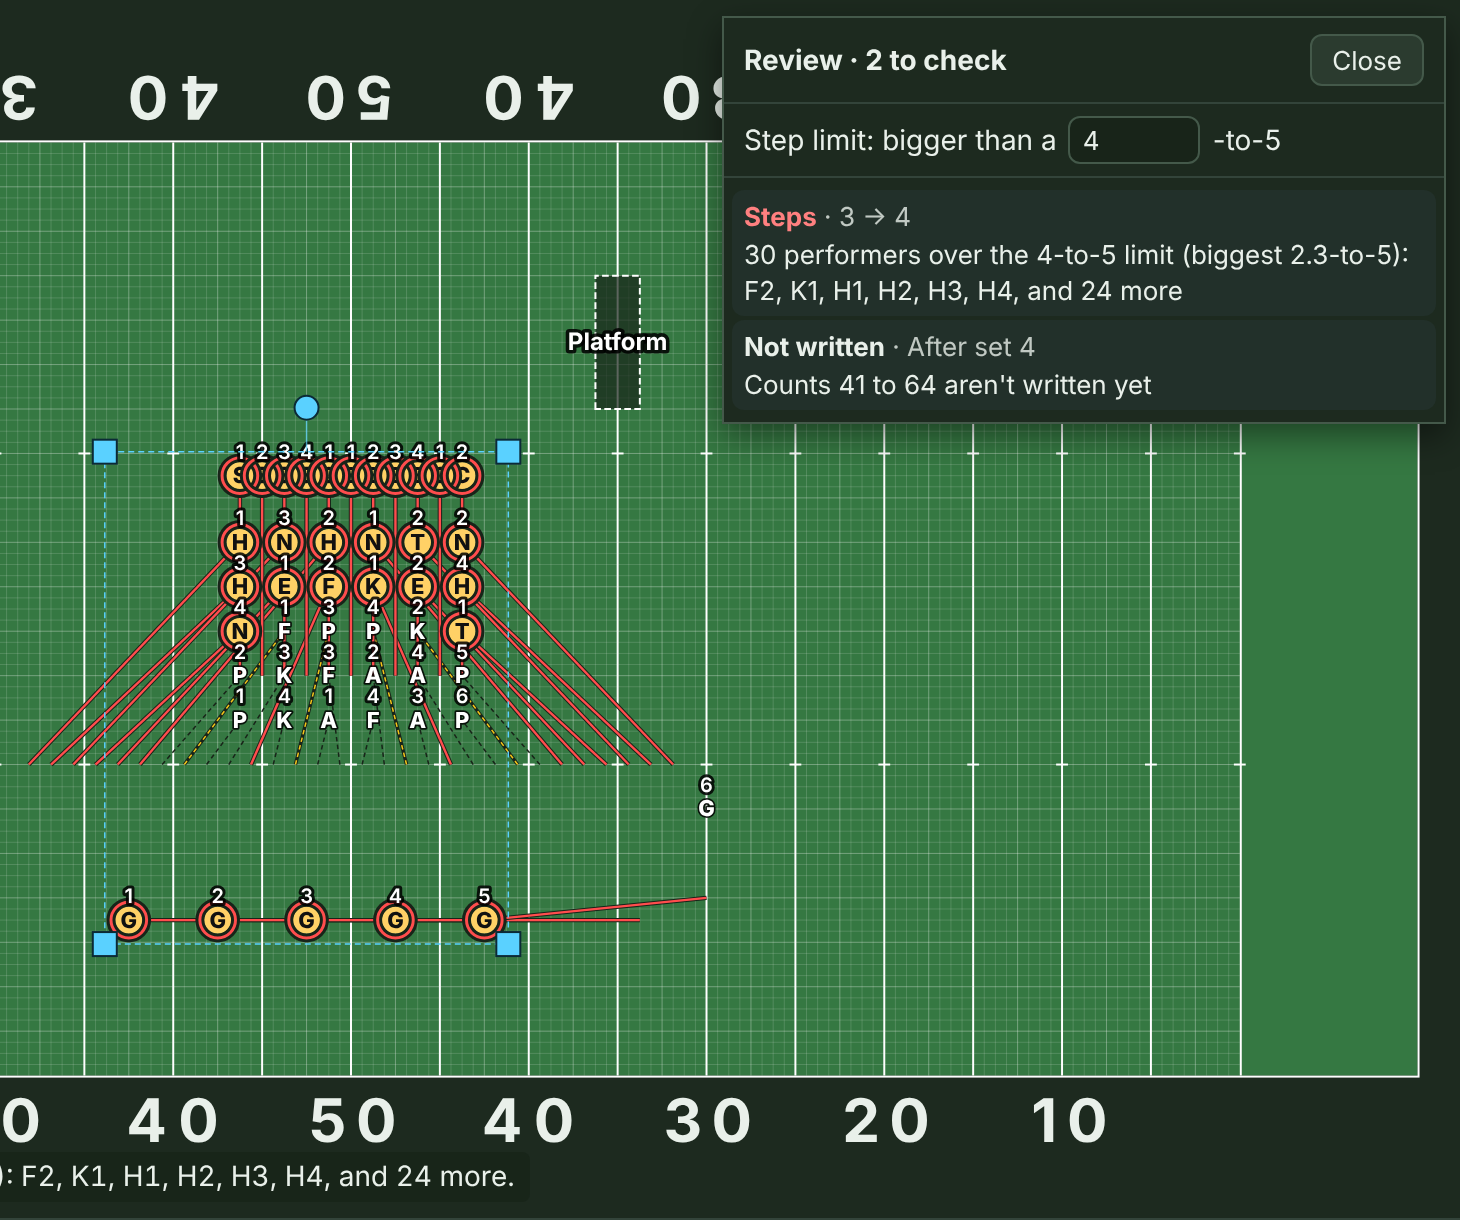
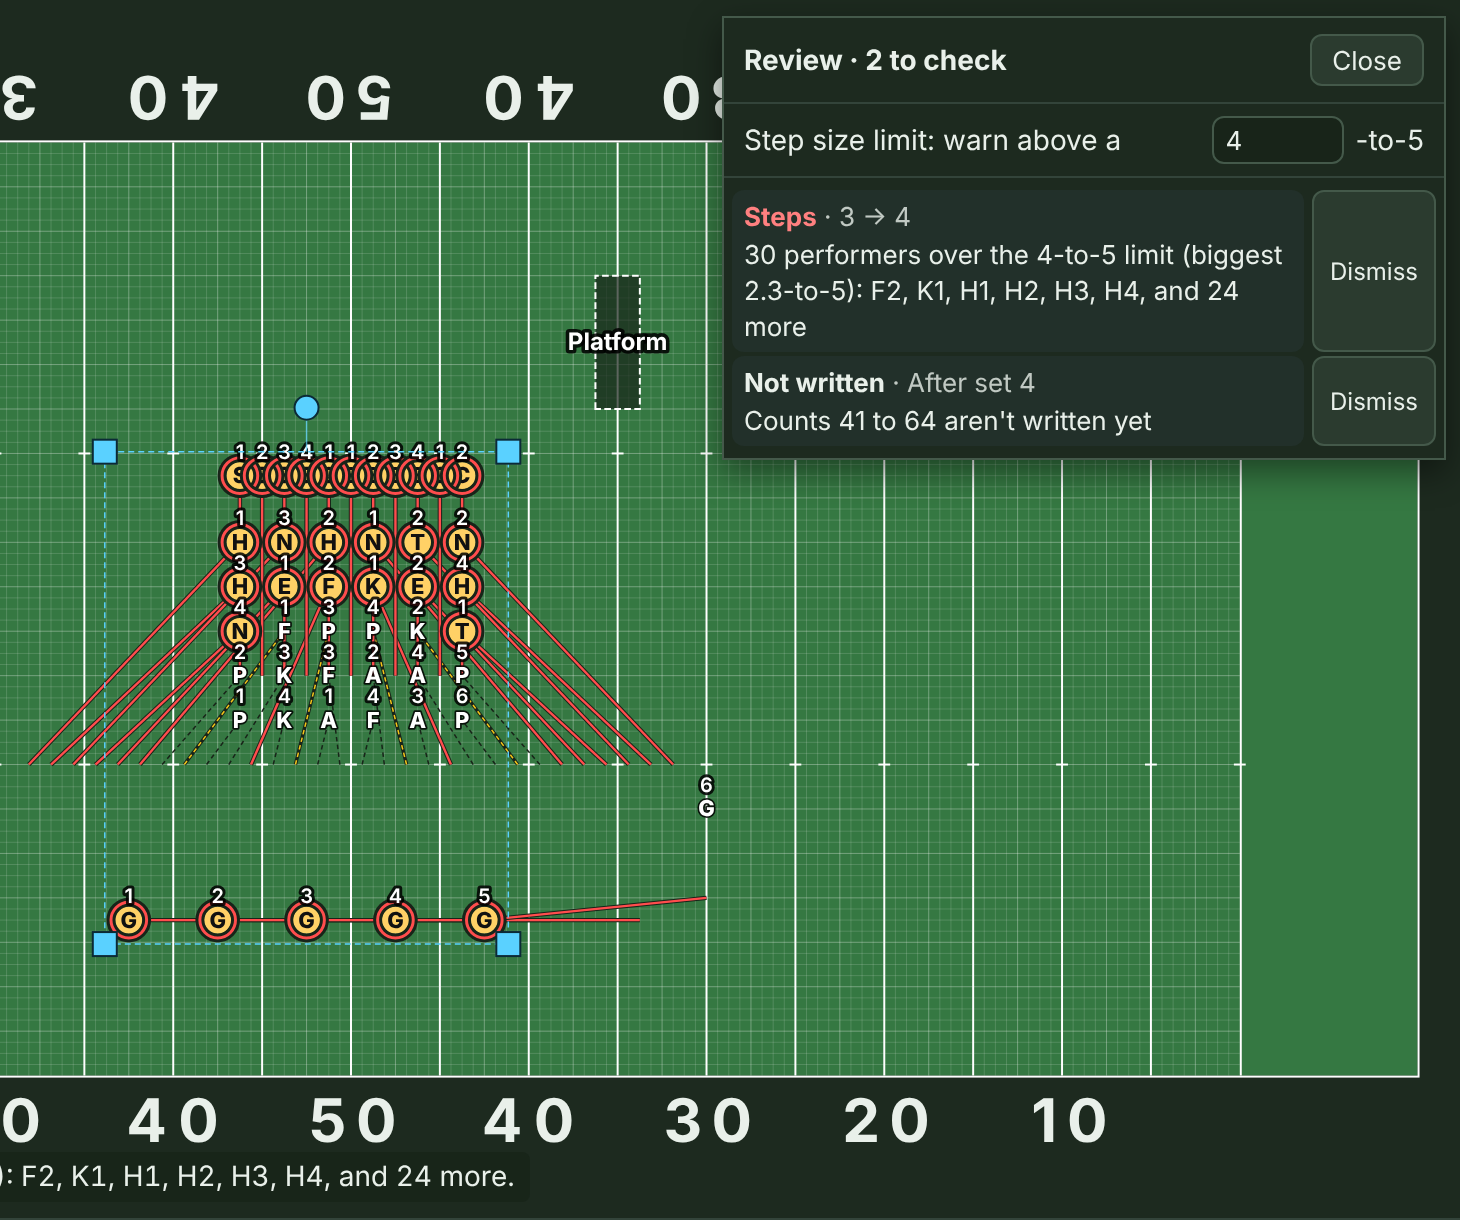
Review: dismiss a warning; "Step size limit"
Each Review warning gets Dismiss. Dismissed warnings are saved with the
show, leave the Review count, and come back if the problem changes
(named by kind, set, and performers). "Show them again" restores them.
The limit row reads "Step size limit: warn above a 4-to-5" so it reads
as a setting, and "1 steps apart" is now "1 step apart".

Claude-Session: https://claude.ai/code/session_012ak5ZVHEpD9G47FepvLhFK

diff --git a/src/ui/Review.tsx b/src/ui/Review.tsx
@@ -1,5 +1,5 @@
 import { STEP_LIMIT } from '../engine/coords';
-import type { Issue, IssueKind } from '../engine/review';
+import { issueKey, type Issue, type IssueKind } from '../engine/review';
 import { MAX_STEP_LIMIT, MIN_STEP_LIMIT, type Show } from '../engine/show';
 import { NumberField } from './NumberField';
 
@@ -12,9 +12,15 @@ const KIND: Record<IssueKind, [string, string]> = {
  * Every problem in the show, in show order: click one to go to its count with its performers selected. Floats over the
  * field (so opening it can't resize the field) and isn't a dialog, so keyboard shortcuts keep working while it's open.
  */
-export function ReviewPanel({ show, setShow, issues, onGo, onClose }: {
-  show: Show; setShow: (f: (s: Show) => Show) => void; issues: Issue[]; onGo: (x: Issue) => void; onClose: () => void;
+export function ReviewPanel({ show, setShow, issues, all, dismissed, onGo, onClose }: {
+  show: Show; setShow: (f: (s: Show) => Show) => void; issues: Issue[]; all: Issue[]; dismissed: number; onGo: (x: Issue) => void; onClose: () => void;
 }) {
+  // Dismissed warnings are saved with the show. Keys for problems that are gone are dropped here, so the list doesn't grow.
+  const dismiss = (x: Issue) => setShow((s) => {
+    const live = new Set(all.map((y) => issueKey(s, y)));
+    return { ...s, dismissed: [...(s.dismissed ?? []).filter((k) => live.has(k)), issueKey(s, x)] };
+  });
+  const restore = () => setShow(({ dismissed: _, ...s }) => s);
   const where = (x: Issue) => x.kind === 'unwritten' ? `After set ${show.sets[x.set].name}`
     : x.set && x.kind !== 'missing' ? `${show.sets[x.set - 1].name} → ${show.sets[x.set].name}` : `Set ${show.sets[x.set].name}`;
   return (
@@ -25,23 +31,31 @@ export function ReviewPanel({ show, setShow, issues, onGo, onClose }: {
         <button onClick={onClose} aria-label="Close Review">Close</button>
       </div>
       <label style={{ display: 'flex', alignItems: 'center', gap: 6, padding: '6px 10px', borderBottom: '1px solid var(--line)' }}>
-        Step limit: bigger than a
-        <NumberField aria-label="Step limit, as N-to-5" min={MIN_STEP_LIMIT} max={MAX_STEP_LIMIT} step={0.5} value={show.stepLimit ?? STEP_LIMIT} style={{ width: 52 }}
+        <span style={{ flex: 1 }}>Step size limit: warn above a</span>
+        <NumberField aria-label="Step size limit, as N-to-5" min={MIN_STEP_LIMIT} max={MAX_STEP_LIMIT} step={0.5} value={show.stepLimit ?? STEP_LIMIT} style={{ width: 52, flex: 'none' }}
           onValue={(n) => setShow(({ stepLimit: _, ...s }) => (n === STEP_LIMIT ? s : { ...s, stepLimit: n }))} />
-        -to-5
+        <span style={{ whiteSpace: 'nowrap' }}>-to-5</span>
       </label>
       {issues.length ? (
         <ul style={{ listStyle: 'none', margin: 0, padding: 4, overflowY: 'auto' }}>
           {issues.map((x, k) => (
-            <li key={k}>
-              <button onClick={() => onGo(x)} style={{ display: 'block', width: '100%', textAlign: 'left', padding: '4px 6px', margin: '2px 0', border: 'none', background: 'var(--surface)' }}>
+            <li key={k} style={{ display: 'flex', gap: 4, alignItems: 'stretch', margin: '2px 0' }}>
+              <button onClick={() => onGo(x)} style={{ display: 'block', flex: 1, textAlign: 'left', padding: '4px 6px', border: 'none', background: 'var(--surface)' }}>
                 <span style={{ color: KIND[x.kind][1], fontWeight: 700 }}>{KIND[x.kind][0]}</span> <span style={{ opacity: 0.8 }}>· {where(x)}</span>
                 <div>{x.text}</div>
               </button>
+              <button onClick={() => dismiss(x)} aria-label={`Dismiss: ${KIND[x.kind][0]}, ${where(x)}, ${x.text}`}
+                title="It's fine as written: hide this warning. It comes back if the problem changes." style={{ fontSize: 12, padding: '0 8px' }}>Dismiss</button>
             </li>
           ))}
         </ul>
-      ) : <p style={{ margin: 0, padding: 10 }}>Nothing to fix: no steps over the limit, nobody too close, every imported path still fits, every performer has a spot in every set, and every count is written.</p>}
+      ) : <p style={{ margin: 0, padding: 10 }}>{dismissed ? 'Nothing else to check.' : 'Nothing to fix: no steps over the limit, nobody too close, every imported path still fits, every performer has a spot in every set, and every count is written.'}</p>}
+      {dismissed > 0 && (
+        <div style={{ display: 'flex', alignItems: 'center', gap: 8, padding: '6px 10px', borderTop: '1px solid var(--line)', fontSize: 13 }}>
+          <span style={{ flex: 1, opacity: 0.8 }}>{dismissed} dismissed</span>
+          <button onClick={restore}>Show them again</button>
+        </div>
+      )}
     </section>
   );
 }

diff --git a/src/App.tsx b/src/App.tsx
@@ -1,6 +1,6 @@
 import { useCallback, useEffect, useMemo, useRef, useState } from 'react';
 import { insidePolygon, readout, type Point } from './engine/coords';
-import { newlyStraight, reviewShow, type Issue } from './engine/review';
+import { newlyStraight, reviewShow, splitDismissed, type Issue } from './engine/review';
 import { ReviewPanel } from './ui/Review';
 import { emptyHistory, record, redo, undo } from './engine/history';
 import { addInk, hitMark, moveMark, type Mark } from './engine/marks';
@@ -323,7 +323,8 @@ export function App() {
   const pathSet = onSet >= 0 ? onSet : t < starts.at(-1)! ? locate(show, t).to : -1;
   const paths: Path[] = useMemo(() => (pathSet < 1 ? [] : moveSegments(show, pathSet, (id) => !faded.has(id))), [show, pathSet, faded]);
   const warn = useMemo(() => new Set(pathSet < 1 ? [] : overLimit(show, pathSet)), [show, pathSet]); // ringed: over the step limit in this move
-  const issues = useMemo(() => reviewShow(show), [show]);
+  const allIssues = useMemo(() => reviewShow(show), [show]);
+  const { open: issues, dismissed } = useMemo(() => splitDismissed(show, allIssues), [show, allIssues]);
   // The FTL group the selection is, exactly, in the move into this set (where Add turns puts the leader's turning points).
   const ftlGroup = onSet > 0 ? show.sets[onSet].ftl?.find((g) => g.order.length === selected.size && g.order.every((id) => selected.has(id))) : undefined;
   useEffect(() => { if (tool === 'turn' && !ftlGroup) setTool('select'); }, [tool, ftlGroup]);
@@ -971,7 +972,7 @@ export function App() {
             <button onClick={() => { const n = Date.now() + DAY; writeTime(SNOOZE, n); setSnooze(n); }}>Later</button>
           </div>
         )}
-        {reviewing && <ReviewPanel show={show} setShow={setShow} issues={issues} onGo={goToIssue} onClose={() => setReviewing(false)} />}
+        {reviewing && <ReviewPanel show={show} setShow={setShow} issues={issues} all={allIssues} dismissed={dismissed.length} onGo={goToIssue} onClose={() => setReviewing(false)} />}
         {/* Floats over the field so its changing length can't move the layout. */}
         {(notice?.t === t || hover) && (
           <div role={notice?.t === t ? 'status' : undefined} style={{ position: 'absolute', left: 8, bottom: 8, maxWidth: 'calc(100% - 16px)', padding: '4px 8px', borderRadius: 4,

diff --git a/src/engine/review.ts b/src/engine/review.ts
@@ -20,7 +20,7 @@ export function reviewShow(show: Show): Issue[] {
     const missing = show.performers.filter((p) => !set.pos[p.id]).map((p) => p.id);
     if (missing.length) out.push({ kind: 'missing', set: i, t: starts[i], ids: missing, text: `${people(missing.length)} with no spot: ${names(missing)}` });
     for (const c of i ? closeCallsMemo(show, i) : closeCalls(show, 0))
-      out.push({ kind: 'close', set: i, t: (i ? starts[i - 1] : 0) + c.count, ids: [c.a, c.b], text: `${names([c.a, c.b]).replace(', ', ' and ')} ${Math.round(c.d * 10) / 10} steps apart${i ? ` on count ${c.count}` : ''}` });
+      out.push({ kind: 'close', set: i, t: (i ? starts[i - 1] : 0) + c.count, ids: [c.a, c.b], text: `${names([c.a, c.b]).replace(', ', ' and ')} ${Math.round(c.d * 10) / 10} ${Math.round(c.d * 10) === 10 ? 'step' : 'steps'} apart${i ? ` on count ${c.count}` : ''}` });
     if (!i) return;
     const over = overLimit(show, i);
     if (over.length) {
@@ -33,6 +33,18 @@ export function reviewShow(show: Show): Issue[] {
   const written = totalCounts(show), length = showLength(show);
   if (length > written) out.push({ kind: 'unwritten', set: show.sets.length - 1, t: written, ids: [], text: `Counts ${written + 1} to ${length} aren't written yet` });
   return out;
+}
+
+/**
+ * Which warning this is, for Dismiss: the kind, the set (by id, so adding a set doesn't move it), and who. If the problem
+ * changes (someone else joins it, or it moves to another set), it's a new warning and shows again.
+ */
+export const issueKey = (show: Show, x: Issue) => `${x.kind}:${show.sets[x.set]?.id}:${[...x.ids].sort().join(',')}`;
+
+/** Review's warnings split into the ones to check and the ones the director dismissed. */
+export function splitDismissed(show: Show, all: Issue[]): { open: Issue[]; dismissed: Issue[] } {
+  const d = new Set(show.dismissed ?? []);
+  return { open: all.filter((x) => !d.has(issueKey(show, x))), dismissed: all.filter((x) => d.has(issueKey(show, x))) };
 }
 
 /** Imported paths an edit just made fall back to straight lines: per move (by the set it goes into, in `after`), who. */

diff --git a/src/engine/review.test.ts b/src/engine/review.test.ts
@@ -1,6 +1,6 @@
 import { describe, expect, it } from 'vitest';
 import { insidePolygon, stepSize } from './coords';
-import { newlyStraight, reviewShow } from './review';
+import { issueKey, newlyStraight, reviewShow, splitDismissed } from './review';
 import { addPerformer, addSetAfter, brokenPaths, closeCalls, closeCallsMemo, newShow, overLimit, parseShow, placeInSet, setCounts, type Show } from './show';
 
 /** Two trumpets 16 steps apart, then a 16-count move: T1 marches 16 steps (8-to-5), T2 holds. */
@@ -85,5 +85,19 @@ describe('lasso', () => {
     expect(insidePolygon({ x: 5, y: 8 }, l)).toBe(false); // in the notch
     expect(insidePolygon({ x: 11, y: 5 }, l)).toBe(false);
     expect(insidePolygon({ x: 1, y: 1 }, l.slice(0, 2))).toBe(false); // a line has no inside
+  });
+});
+
+describe('dismissing a warning', () => {
+  it('hides it, is saved with the show, and comes back when the problem changes', () => {
+    const { show: s0, a, b } = show2();
+    const over = setCounts(s0, 1, 4); // T1: a 2-to-5, over the limit
+    const x = reviewShow(over).find((i) => i.kind === 'steps')!;
+    const show = { ...over, dismissed: [issueKey(over, x)] };
+    expect(splitDismissed(show, reviewShow(show)).open.some((i) => i.kind === 'steps')).toBe(false);
+    expect(splitDismissed(show, reviewShow(show)).dismissed).toHaveLength(1);
+    expect(parseShow(JSON.stringify(show)).dismissed).toEqual(show.dismissed);
+    const both = placeInSet(show, 1, { [b]: { x: 32, y: 28 } }); // now T2 is over too: a new warning
+    expect(splitDismissed(both, reviewShow(both)).open.find((i) => i.kind === 'steps')?.ids.sort()).toEqual([a, b].sort());
   });
 });

diff --git a/src/engine/show.ts b/src/engine/show.ts
@@ -110,6 +110,8 @@ export interface Show {
   surface?: Floor;
   /** The biggest step allowed, as N-to-5: a step bigger than a `stepLimit`-to-5 is red and listed in Review. Missing = STEP_LIMIT (4). */
   stepLimit?: number;
+  /** Review warnings the director has looked at and dismissed (see issueKey in review.ts). */
+  dismissed?: string[];
 }
 
 /** What the show is written on: its floor, or the football field with its hashes. */
@@ -954,6 +956,7 @@ function checkShow(s: any): Show { // eslint-disable-line @typescript-eslint/no-
     && Number.isFinite(s.trace.opacity) && s.trace.opacity >= 0 && s.trace.opacity <= 1)) bad('trace');
   if (s.surface !== undefined && !((s.surface?.kind === 'court' || s.surface?.kind === 'floor') && Number.isFinite(s.surface.w) && s.surface.w >= 4 && s.surface.w <= 400
     && Number.isFinite(s.surface.d) && s.surface.d >= 4 && s.surface.d <= 400)) bad('surface');
+  if (s.dismissed !== undefined && !(Array.isArray(s.dismissed) && s.dismissed.length <= 5000 && s.dismissed.every((k: unknown) => typeof k === 'string' && k.length <= 20_000))) bad('dismissed warnings');
   if (s.stepLimit !== undefined && !(Number.isFinite(s.stepLimit) && s.stepLimit >= MIN_STEP_LIMIT && s.stepLimit <= MAX_STEP_LIMIT)) bad('step limit');
   const propIds = new Set((s.props ?? []).map((p: Prop) => p.id));
   for (const set of s.sets) {

diff --git a/docs/HOW-TO.md b/docs/HOW-TO.md
@@ -294,7 +294,7 @@ FreeFORM checks every move against the counts it has:
 
 The colors show on the path lines on the field and in the timeline's "max" readout for each move. A red path is also solid and wider than the others (the rest are dashed), so it stands out even for someone who can't tell red from green. On the field, everyone over the limit in the move you're looking at also gets a red ring, so you can see who it is. When a move's "max" is red, it's underlined: click it to go to that set with everyone over the limit selected, and a note at the bottom of the field names them. To fix a red move, add counts, shorten the distance, or split the move with a sub-set.
 
-**Changing the step limit.** Open **Review** (in the top bar) and type a number in **Step limit**. A younger band might use 6 (anything bigger than a 6-to-5 turns red), and a corps-style show might use 8. It's saved with the show, from a 2-to-5 up to an 8-to-5.
+**Changing the step size limit.** Open **Review** (in the top bar) and type a number in **Step size limit** at the top. It's a setting, not a warning: it tells Review when to warn. A younger band might use 6 (anything bigger than a 6-to-5 turns red), and a corps-style show might use 8. It's saved with the show, from a 2-to-5 up to an 8-to-5.
 
 **Too close.** FreeFORM also checks every move, start to finish, for two performers less than a step apart, even if they're fine at both ends. It catches fast crossings that happen between counts, too. The timeline shows how many pairs come too close in each move ("2 too close" in red). Click that warning to jump to the count where the closest pair is nearest: both performers are selected, and a note at the bottom of the field says who they are and how close they get. Open **Move** to see every pair, how close they get, and on what count. **Select** picks a pair so you can fix them, by spreading their spots, giving one a delayed step-off, or changing who goes to which spot.
 
@@ -313,6 +313,8 @@ The warnings on the timeline cover one move at a time. **Review**, in the top ba
 - **Not written**: counts in your **Movements** that don't have sets yet.
 
 Click an item to go there: the playhead moves to that set or count, the performers are selected, and a note at the bottom of the field says what's wrong. The list stays open while you fix things and updates as you go, and it says "all clear" when there's nothing left. **Close** puts it away.
+
+**Dismissing a warning.** Some warnings are fine as written: two performers who pass each other on purpose, or one long step you've already planned for. Click **Dismiss** beside it, and it leaves the list and the count on the **Review** button. It's saved with the show. If the problem changes (another performer joins it, say), it shows up again as a new warning. **Show them again**, at the bottom of the list, brings back everything you dismissed.
 
 **Imported paths that go straight.** A move imported from Pyware count by count (a follow-the-leader, a delayed step-off, a rotation) keeps its route only while both of its sets and its counts stay as they came in. If you move one of those performers in either set, or change the move's counts, that performer marches a straight line instead. When an edit does that, a note at the bottom of the field says so, like "4 imported paths in the move into set 7 are straight lines now." Undo brings the routes back, and so does putting the spots and counts back the way they were. Until then, Review lists them.
 

diff --git a/DECISIONS.md b/DECISIONS.md
@@ -1474,3 +1474,7 @@ Each entry: timestamp, who decided, context, options considered, decision.
 ## 2026-11-10: "Recovery code", and a way in from a blank field (Jason can veto)
 - **Context:** Jason moved a show to Safari with the code, but the steps were only on the screen that gave him the code. Weeks later, on a new device, a director wouldn't know where to paste it.
 - **Decision:** (1) The copied code is a short message with the steps written above it, and **Email it to yourself** sends that message, so the steps travel with the code. (2) The blank field's start note gets a fourth button that opens the paste box directly. (3) Jason asked that the button read **Open from a link or recovery code…**; for one name everywhere, the code is now called a **recovery code** in the Share dialog, the copied message, and the guide (the code's own text, `FREEFORM-PUBLISHING-1.`, is unchanged, so codes already copied still work).
+
+## 2026-11-10: Dismissing Review warnings, and "Step size limit" (Jason can veto)
+- **Context:** Jason's show had 35 Review warnings, many of them intended (performers passing each other), with no way to clear them. He also asked why the step limit shows when nothing is over it, and to call it "Step size limit."
+- **Decision:** Each warning gets **Dismiss**. Dismissed warnings are saved with the show (so they travel with Save, Full backup, and a co-writer's copy), drop out of the **Review (n)** count, and are named by kind, set, and performers: if the problem changes, it's a new warning and shows again. **Show them again** brings them all back; one at a time seemed like more than a first version needs. The timeline's red step warnings still show, since they're about the drill itself. The limit row now reads "Step size limit: warn above a 4-to-5", so it reads as a setting, and "1 steps apart" became "1 step apart".
